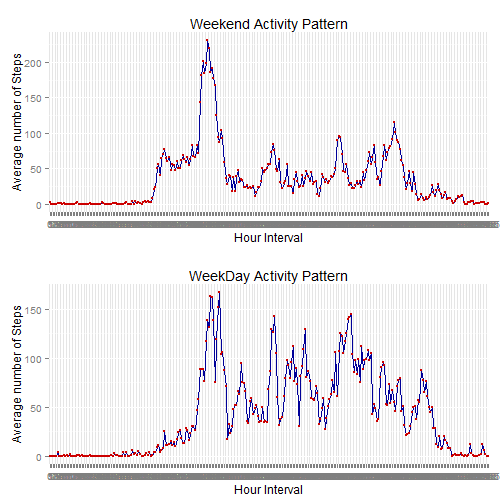
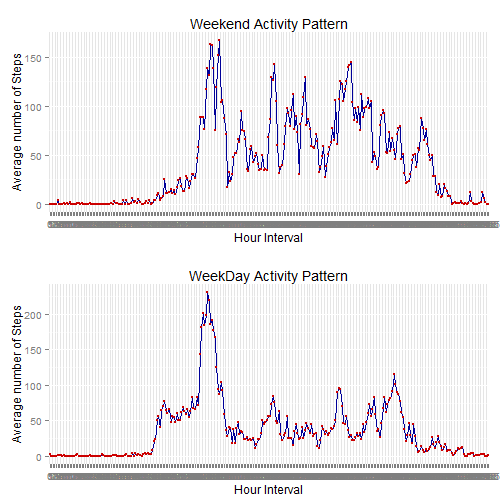
Last commit

diff --git a/PA1_template.html b/PA1_template.html
@@ -199,7 +199,7 @@ unlink(&quot;activity.csv&quot;)
 <pre><code class="r">date
 </code></pre>
 
-<pre><code>## [1] &quot;Mon Jun 16 00:27:04 2014&quot;
+<pre><code>## [1] &quot;Mon Jun 16 00:31:16 2014&quot;
 </code></pre>
 
 <h2>What is mean total number of steps taken per day?</h2>
@@ -294,7 +294,7 @@ mean(aggSum1$steps, na.rm=TRUE)
 
 <pre><code class="r"># New factor variable in the dataset with two levels - &quot;weekday&quot; and &quot;weekend&quot; indicating whether a given date is a weekday or weekend day
 
-total$wd &lt;- ifelse(weekdays(as.Date(total$date)) %in% c(&#39;sábado&#39;,&#39;domingo&#39;),1,0)
+total$wd &lt;- ifelse(!weekdays(as.Date(total$date)) %in% c(&#39;sábado&#39;,&#39;domingo&#39;),1,0)
 
 total2 &lt;- split (total,total$wd)
 stweekend &lt;- total2[[1]]
@@ -326,7 +326,7 @@ library(gridExtra)
 grid.arrange(p1, p2)
 </code></pre>
 
[2 lines of base64/hex data omitted]
 
 <p>There are difference between weekday and weekend activity pattern.
 The most important difference is that during the weekend there is more activity than the weekdays.</p>
